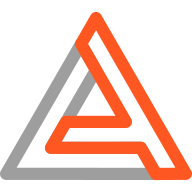
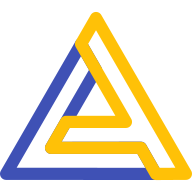
new theme

Changed region(s): [[0.0, 0.0625, 1.0, 0.9375]]

diff --git a/p2/src/list-view.html b/p2/src/list-view.html
@@ -20,10 +20,13 @@
       :host {
         display: block;
       }
+      iron-list {
+        padding: calc(var(--user-gap) / 2);
+      }
       .square {
-        width: calc((100vw - 16px) / 4);
+        width: calc((var(--user-width) - var(--user-gap)) / 4);
         box-sizing: border-box;
-        padding: 8px;
+        padding: calc(var(--user-gap) / 2);
       }
       iron-image {
         width: 100%;
@@ -34,8 +37,8 @@
         padding-bottom: 100%;
       }
       .headline {
+        padding: 0 16px;
         @apply --layout-horizontal;
-        /* @apply --layout-justified; */
         background-color: #fff;
       }
       .nopadding {
@@ -43,18 +46,17 @@
       }
       .headline > div {
         font-size: 20px;
+        line-height: 110%;
         font-weight: 300;
       }
       .action {
         @apply --layout-horizontal;
-        /* @apply --layout-justified; */
         @apply --layout-wrap;
-        padding: 16px 12px 11px 16px;
-        /* background-color: var(--light-primary-color); */
+        padding: calc(var(--user-gap) / 2) 0;
       }
-      @media (max-width: 1024px) { .square { width: calc((100vw - 16px) / 3); }}
-      @media (max-width: 768px)  { .square { width: calc((100vw - 16px) / 2); }}
-      @media (max-width: 432px)  { .square { width: calc(100vw - 16px); }}
+      @media (max-width: 1024px) { .square { width: calc((100vw - var(--user-gap)) / 3); }}
+      @media (max-width: 768px)  { .square { width: calc((100vw - var(--user-gap)) / 2); }}
+      @media (max-width: 432px)  { .square { width: calc(100vw - var(--user-gap)); }}
     </style>
 
     <paper-dialog id="message"
@@ -75,7 +77,7 @@
       </div>
     </paper-dialog>
 
-    <app-header-layout fullbleed>
+    <app-header-layout class="big" fullbleed>
       <app-header condenses reveals shadow effects="resize-title blend-background waterfall" slot="header">
         <app-toolbar>
           <paper-icon-button icon="arrow-back" on-tap="goBack"></paper-icon-button>
@@ -96,11 +98,11 @@
 
       <iron-ajax id="delete_ajax" method="DELETE"></iron-ajax>
 
-      <iron-list id="list" items="{{records}}" as="rec" scroll-target="document" style="padding: 8px" grid>
+      <iron-list id="list" items="{{records}}" as="rec" scroll-target="document" grid>
         <template>
           <div>
             <div class="square">
-              <app-toolbar class$="{{noPad(isAuthorized)}}">
+              <div class$="layout horizontal {{noPad(isAuthorized)}}">
                 <paper-menu-button hidden$="{{!isAuthorized}}">
                   <paper-icon-button icon="more-vert" slot="dropdown-trigger"></paper-icon-button>
                   <paper-listbox slot="dropdown-content">
@@ -108,8 +110,8 @@
                     <paper-item on-tap="showDialog">Remove</paper-item>
                   </paper-listbox>
                 </paper-menu-button>
-                <div>[[rec.headline]]</div>
-              </app-toolbar>
+                <div class="self-center">[[rec.headline]]</div>
+              </div>
               <div style="position:relative">
                 <iron-image src="[[checkImage(rec)]]"
                   preload fade

diff --git a/p2/src/shared-styles.html b/p2/src/shared-styles.html
@@ -3,22 +3,25 @@
 <dom-module id="shared-styles">
   <template>
     <style include="iron-flex iron-flex-alignment">
-      /*grey/deep orange*/
       :root {
-        /* --dark-primary-color:       #616161;
-        --default-primary-color:    #9E9E9E;
-        --light-primary-color:      #F5F5F5;
-        --text-primary-color:       #212121; */
-        --accent-color:             #FEC007;
-        /* --primary-background-color: #F5F5F5;
+        --dark-primary-color:       #303F9F;
+        --default-primary-color:    #3F51B5; /* indigo */
+        --light-primary-color:      #C5CAE9;
+        --text-primary-color:       #FFFFFF;
+        --accent-color:             #FFC107; /* amber */
+        --primary-background-color: #C5CAE9;
         --primary-text-color:       #212121;
         --secondary-text-color:     #757575;
         --disabled-text-color:      #BDBDBD;
-        --divider-color:            #BDBDBD; */
+        --divider-color:            #BDBDBD;
 
         --error-color:              #d32f2f;
-        /* --primary-color:            var(---text-primary-color); */
+
+        --user-gap:                 16px;
+        --user-width:               100vw;
       }
+      /* @media (max-width: 1440px) { :root { --user-width: 1440px; --user-gap: 32px; }}
+      @media (max-width: 1024px) { :root { --user-width: 1024px; --user-gap: 16px; }} */
       [hidden] {
         display: none !important;
       }
@@ -26,11 +29,17 @@
         outline: none;
       }
       a {
-        color: var(--accent-color);
+        color: var(--default-primary-color);
       }
       app-header {
         color: var(--text-primary-color);
         background-color: var(--default-primary-color);
+      }
+      /* .big, .big app-header {
+        padding: 0 calc((100vw - var(--user-width)) / 2);
+      } */
+      app-toolbar {
+        padding: 0 var(--user-gap);
       }
       app-toolbar a {
         display: inline-block;
@@ -50,6 +59,7 @@
       }
       paper-dialog {
         max-width: 400px;
+        background-color: #fff;
         --paper-dialog-title: {
           white-space: normal;
           text-align: center;
@@ -69,8 +79,8 @@
       }
       paper-fab {
         position: absolute;
-        top: 72px;
-        right: 8px;
+        top: calc(64px + (var(--user-gap) / 2));
+        right: calc(var(--user-gap) / 2);
       }
       paper-dialog paper-button {
         color: var(--primary-text-color);
@@ -91,9 +101,8 @@
         color: #fff;
       }
       iron-image {
-        /* background-color: var(--primary-background-color); */
         --iron-image-placeholder: {
-          background-color: var(--primary-background-color);
+          background-color: #fff;
         };
       }
       iron-image.thumbnail {
@@ -101,11 +110,13 @@
         width: 40px;
         height: 40px;
         border-radius: 50%;
-        background-color: transparent;
+        --iron-image-placeholder: {
+          background-color: transparent;
+        };
       }
       .container {
         @apply --layout-flex;
-        padding: 16px;
+        padding: var(--user-gap);
       }
       footer {
         height: 50px;

diff --git a/p2/src/start-view.html b/p2/src/start-view.html
@@ -10,10 +10,13 @@
       :host {
         display: block;
       }
+      .horizontal {
+        padding: calc(var(--user-gap) / 2);
+      }
       .square {
         float: left;
         position: relative;
-        width: calc((100vw - 16px) / 6);
+        width: calc((var(--user-width) - var(--user-gap)) / 6);
         box-sizing: border-box;
         cursor: pointer;
         padding: 8px;
@@ -25,20 +28,20 @@
       }
       .square iron-image {
         position: absolute;
-        top: 8px;
-        bottom: 8px;
-        left: 8px;
-        right: 8px;
+        top: calc(var(--user-gap) / 2);
+        bottom: calc(var(--user-gap) / 2);
+        left: calc(var(--user-gap) / 2);
+        right: calc(var(--user-gap) / 2);
       }
       .square .title {
         @apply --layout-horizontal;
         @apply --layout-justified;
         position: absolute;
-        bottom: 8px;
-        left: 8px;
-        right: 8px;;
+        bottom: calc(var(--user-gap) / 2);
+        left: calc(var(--user-gap) / 2);
+        right: calc(var(--user-gap) / 2);
+        color: var(--text-primary-color);
         background-color: rgba(0, 0, 0, 0.5);
-        color: var(--primary-background-color);
         font-size: 20px;
         padding: 16px;
         text-overflow: ellipsis;
@@ -47,10 +50,10 @@
         @apply --layout-self-center;
       }
 
-      @media (max-width: 1440px) { .square { width: calc((100vw - 16px) / 5); }}
-      @media (max-width: 1024px) { .square { width: calc((100vw - 16px) / 4); }}
-      @media (max-width: 768px)  { .square { width: calc((100vw - 16px) / 3); }}
-      @media (max-width: 432px)  { .square { width: calc((100vw - 16px) / 2); }}
+      @media (max-width: 1440px) { .square { width: calc((100vw - var(--user-gap)) / 5); }}
+      @media (max-width: 1024px) { .square { width: calc((100vw - var(--user-gap)) / 4); }}
+      @media (max-width: 768px)  { .square { width: calc((100vw - var(--user-gap)) / 3); }}
+      @media (max-width: 432px)  { .square { width: calc((100vw - var(--user-gap)) / 2); }}
     </style>
 
     <firebase-app
@@ -71,7 +74,7 @@
 
     <iron-ajax url="/api/filters" last-response="{{data}}" auto></iron-ajax>
 
-    <app-header-layout fullbleed>
+    <app-header-layout class="big" fullbleed>
       <app-header reveals shadow slot="header">
         <app-toolbar>
           <h4 condensed-title></h4>
@@ -87,7 +90,7 @@
         </app-toolbar>
       </app-header>
 
-      <div class="flex horizontal wrap" style="padding: 8px">
+      <div class="flex horizontal wrap">
         <template is="dom-repeat" items="[[data]]" as="rec">
           <div class="square" data-field$="[[rec.field_name]]" on-tap="showList" tabindex$="[[tabIndex]]">
             <iron-image

diff --git a/p2/src/app-shell.html b/p2/src/app-shell.html
@@ -1,5 +1,7 @@
 <link rel="import" href="../bower_components/polymer/polymer-element.html">
 <link rel="import" href="../bower_components/app-layout/app-header-layout/app-header-layout.html">
+<link rel="import" href="../bower_components/app-layout/app-header/app-header.html">
+<link rel="import" href="../bower_components/app-layout/app-toolbar/app-toolbar.html">
 <link rel="import" href="../bower_components/app-layout/helpers/helpers.html">
 <link rel="import" href="../bower_components/app-route/app-location.html">
 <link rel="import" href="../bower_components/app-route/app-route.html">
@@ -82,7 +84,7 @@
       static get is() { return 'app-shell'; }
       static get properties() {
         return {
-          version: { type: String, value: '201708241315' },
+          version: { type: String, value: '201708242251' },
           copy: {
             type: String,
             computed: 'copywrite(version)'

diff --git a/p2/index.html b/p2/index.html
@@ -8,7 +8,7 @@
     <title>ANDрејевићи</title>
     <meta name="description" content="">
     <link rel="shortcut icon" href="/images/logo.png">
-    <meta name="theme-color" content="#F5F5F5">
+    <meta name="theme-color" content="#3F51B5">
     <!-- See https://goo.gl/OOhYW5 -->
     <link rel="manifest" href="/manifest.json">
 
@@ -55,8 +55,8 @@
       [unresolved] .header {
         height: 128px;
         width: 100%;
-        color: #212121;
-        background: #f5f5f5;
+        color: #FFFFFF;
+        background: #3F51B5;
       }
       [unresolved] h1 {
         height: 64px;

diff --git a/p2/src/add-view.html b/p2/src/add-view.html
@@ -11,14 +11,14 @@
       vaadin-upload {
         --vaadin-upload-button-add: {
           font-size: inherit;
-          color: var(--primary-background-color);
+          color: var(--primary-text-color);
           background-color: var(--accent-color);
           @apply(--shadow-elevation-2dp);
         }
       }
     </style>
 
-    <app-header-layout fullbleed>
+    <app-header-layout class="big" fullbleed>
       <app-header fixed shadow slot="header">
         <app-toolbar>
           <paper-icon-button icon="arrow-back" on-tap="goBack"></paper-icon-button>

diff --git a/p2/src/admin-view.html b/p2/src/admin-view.html
@@ -16,7 +16,7 @@
       }
       paper-button {
         min-width: 175px;
-        margin-bottom: 16px;
+        margin-bottom: var(--user-gap);
       }
       paper-button[disabled] {
         color: var(--dark-primary-color);
@@ -43,7 +43,7 @@
       content-type="application/json"
       method="POST"></iron-ajax>
 
-    <app-header-layout fullbleed>
+    <app-header-layout class="big" fullbleed>
       <app-header fixed shadow slot="header">
         <app-toolbar>
           <paper-icon-button icon="arrow-back" on-tap="goBack"></paper-icon-button>

diff --git a/p2/src/common-resources.html b/p2/src/common-resources.html
@@ -1,7 +1,3 @@
-<link rel="import" href="../bower_components/app-layout/app-header-layout/app-header-layout.html">
-<link rel="import" href="../bower_components/app-layout/app-header/app-header.html">
-<link rel="import" href="../bower_components/app-layout/app-toolbar/app-toolbar.html">
-
 <link rel="import" href="../bower_components/iron-icons/iron-icons.html">
 <link rel="import" href="../bower_components/paper-icon-button/paper-icon-button.html">
 <link rel="import" href="../bower_components/paper-fab/paper-fab.html">

diff --git a/p2/src/item-view.html b/p2/src/item-view.html
@@ -10,13 +10,13 @@
       }
       img-pan-zoom {
         height: 100%;
-        padding: 16px;
+        padding: calc(var(--user-gap));
       }
     </style>
 
     <iron-ajax url="[[_url(safekey)]]" last-response="{{item}}" auto></iron-ajax>
 
-    <app-header-layout fullbleed>
+    <app-header-layout class="big" fullbleed>
       <app-header reveals shadow slot="header">
         <app-toolbar>
           <paper-icon-button icon="arrow-back" on-tap="goBack"></paper-icon-button>

diff --git a/p2/src/search-view.html b/p2/src/search-view.html
@@ -33,7 +33,7 @@
       @media (max-width: 432px)  { .app-grid { --app-grid-columns: 1; }}
     </style>
 
-    <app-header-layout fullbleed>
+    <app-header-layout class="big" fullbleed>
       <app-header fixed shadow slot="header">
         <app-toolbar>
           <paper-icon-button icon="arrow-back" on-tap="goBack"></paper-icon-button>

diff --git a/p2/src/edit-view.html b/p2/src/edit-view.html
@@ -16,7 +16,7 @@
       }
     </style>
 
-    <app-header-layout fullbleed>
+    <app-header-layout class="big" fullbleed>
       <app-header fixed shadow slot="header">
         <app-toolbar>
           <paper-icon-button icon="arrow-back" on-tap="goBack"></paper-icon-button>

diff --git a/p2/src/notfound-view.html b/p2/src/notfound-view.html
@@ -8,7 +8,7 @@
       }
     </style>
 
-    <app-header-layout fullbleed>
+    <app-header-layout class="big" fullbleed>
       <app-header fixed shadow slot="header">
         <app-toolbar>
           <paper-icon-button icon="arrow-back" on-tap="goBack"></paper-icon-button>
